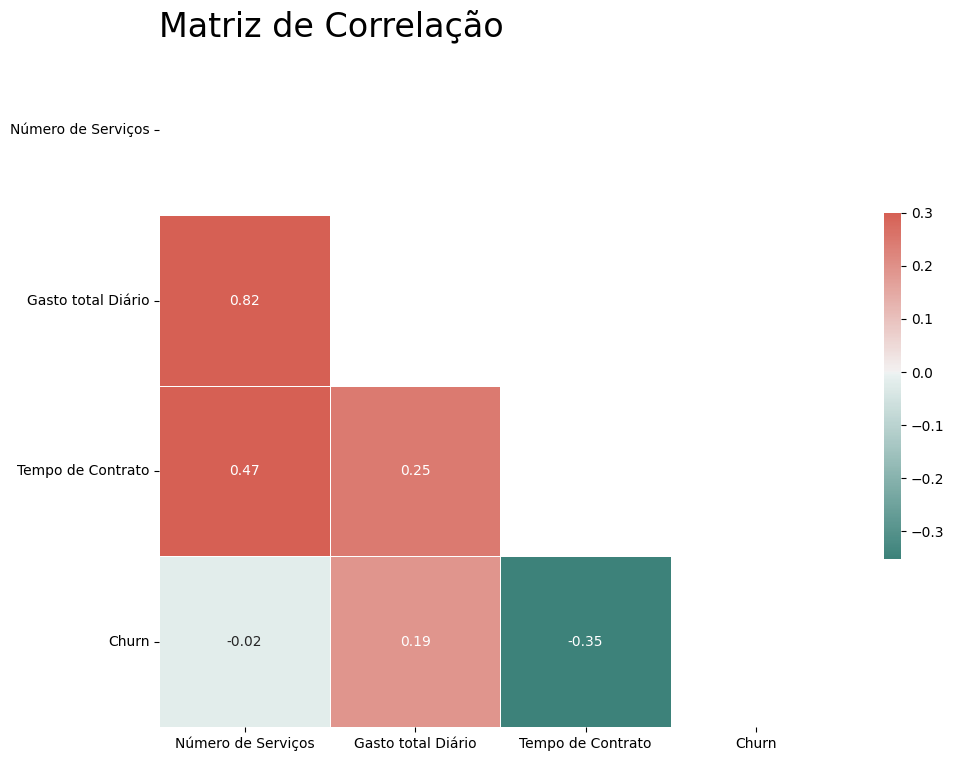
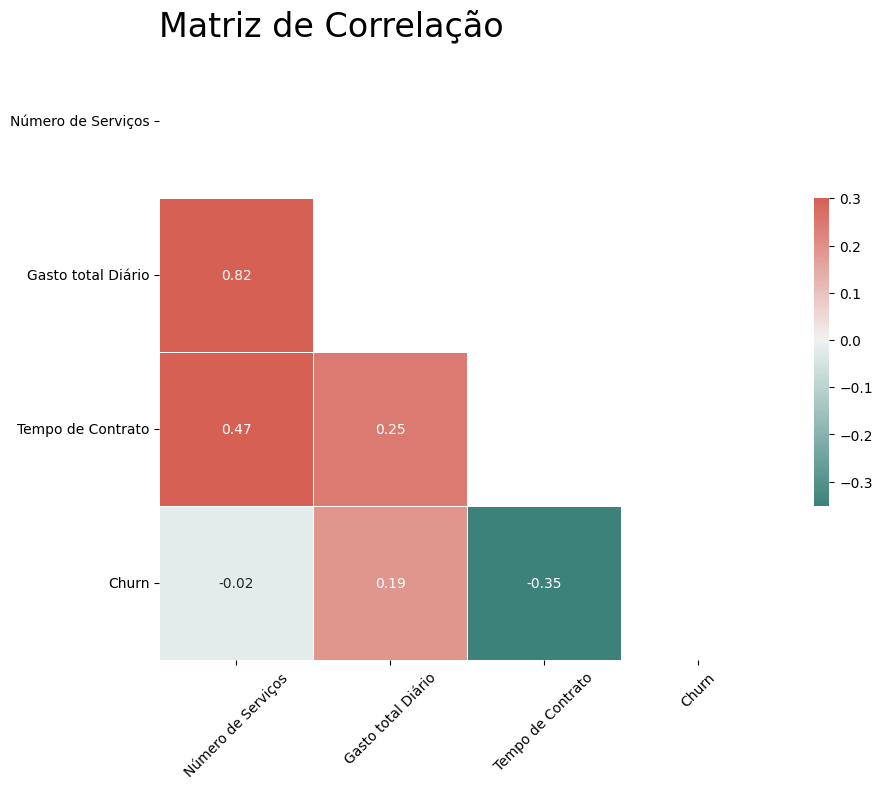
Gráficos finais

diff --git a/analise.py b/analise.py
@@ -62,8 +62,9 @@ plt.show()
 g = sns.lmplot(df, x='tenure', y ='Charges_Total_Day',hue='Churn',col='Contract',
                col_order=["Month-to-month","One year","Two year"], palette='Set2')
 
-g.figure.suptitle("Relação entre Meses de Contrato e Total Gasto por Dia",fontsize=16)
+g.figure.suptitle("Distribuição total gasto por dia e meses de contrato em relação ao tipo de Contrato",fontsize=16)
 g.figure.subplots_adjust(top=0.85)
+
 g.set_axis_labels("Tempo de Contrato (meses)", "Gasto Diário (R$)")
 g._legend.set_bbox_to_anchor((1.05, 0.5))
 g._legend.set_frame_on(False)
@@ -107,7 +108,12 @@ plt.show()
 # %%
 g = sns.lmplot(df, x='tenure', y ='Charges_Total_Day',hue='Churn',
                col='PaymentMethod',palette='Set2')
+g.figure.suptitle("Distribuição total gasto por dia e meses de contrato em relação ao tipo de Pagamento",fontsize=16)
+g.figure.subplots_adjust(top=0.85)
+
 g.set_axis_labels("Meses de Contrato","Total Gasto por Dia")
+g._legend.set_bbox_to_anchor((1.05, 0.5))
+g._legend.set_frame_on(False)
 
 plt.tight_layout()
 plt.show()
@@ -133,26 +139,59 @@ for ax in axs.ravel():
 plt.tight_layout()
 plt.show()
 # %%
-corr = ['n_servicos',"Charges_Total_Day","tenure","Churn"]
+# Fazendo análises através de matrizes de correlação.
+cols_corr = ['n_servicos', 'Charges_Total_Day', 'tenure', 'Churn']
 # Criando matriz de correlação
-matriz_corr = df[corr].corr()
+matriz_corr = df[cols_corr].corr()
 
 # Cria uma Máscara para tirar a parte superior da matriz.
 mask = np.triu(np.ones_like(matriz_corr,dtype=bool))
-
-fig, ax = plt.subplots(figsize=(11, 9))
 cmap = sns.diverging_palette(180,15,as_cmap=True)
+
+# %%
+fig, ax = plt.subplots(figsize=(10, 8))
 
 sns.heatmap(matriz_corr, mask=mask,cmap=cmap, vmax=0.3, center=0,
             square=True, linewidths=.5,cbar_kws={"shrink": .5},
             annot=True, fmt=".2f",ax=ax)
 
+labels = ['Número de Serviços', 'Gasto total Diário', 'Tempo de Contrato','Churn']
+tick_positions = np.arange(len(labels)) + 0.5
+
 ax.set_title("Matriz de Correlação",fontsize=24,loc='left')
-ax.set_xticks([0.5,1.5,2.5,3.5],
-               labels=['Número de Serviços', 'Gasto total Diário', 'Tempo de Contrato','Churn'],
+ax.set_xticks(tick_positions,
+               labels=labels,
+                rotation=45)
+ax.set_yticks(tick_positions,
+               labels=labels,
                 rotation='horizontal')
-ax.set_yticks([0.5,1.5,2.5,3.5],
-               labels=['Número de Serviços', 'Gasto total Diário', 'Tempo de Contrato','Churn'],
+plt.tight_layout
+plt.show()
+# %%
+payment_dummies = pd.get_dummies(df['PaymentMethod'], prefix='pay', drop_first=False)
+df_corr = pd.concat([payment_dummies,df[['Churn']]], axis=1)
+
+matriz_corr = df_corr.corr()
+
+mask = np.triu(np.ones_like(matriz_corr, dtype=bool))
+# %%
+fig, ax = plt.subplots(figsize=(10, 8))
+
+sns.heatmap(matriz_corr, mask=mask,cmap=cmap, vmax=0.3, center=0,
+            square=True, linewidths=.5,cbar_kws={"shrink": .5},
+            annot=True, fmt=".2f",ax=ax)
+
+ax.set_title("Matriz de Correlação com Métodos de Pagamento",fontsize=24,loc='left')
+
+labels = ['Boleto Bancário', 'Cartão de Crédito',
+          'Cheque Eletrônico', 'Cheque Enviado','Churn']
+tick_positions = np.arange(len(labels)) + 0.5
+
+ax.set_xticks(tick_positions,
+               labels=labels,
+                rotation=45)
+ax.set_yticks(tick_positions,
+               labels=labels,
                 rotation='horizontal')
 
 plt.show()

diff --git a/tratamento.py b/tratamento.py
@@ -100,5 +100,5 @@ df['n_servicos'] = df_servicos.sum(axis=1)
 df.head()
 
 # %%
-df.to_csv("data/telecomx.csv")
+df.to_csv("data/telecomx.csv",index=False)
 # %%
